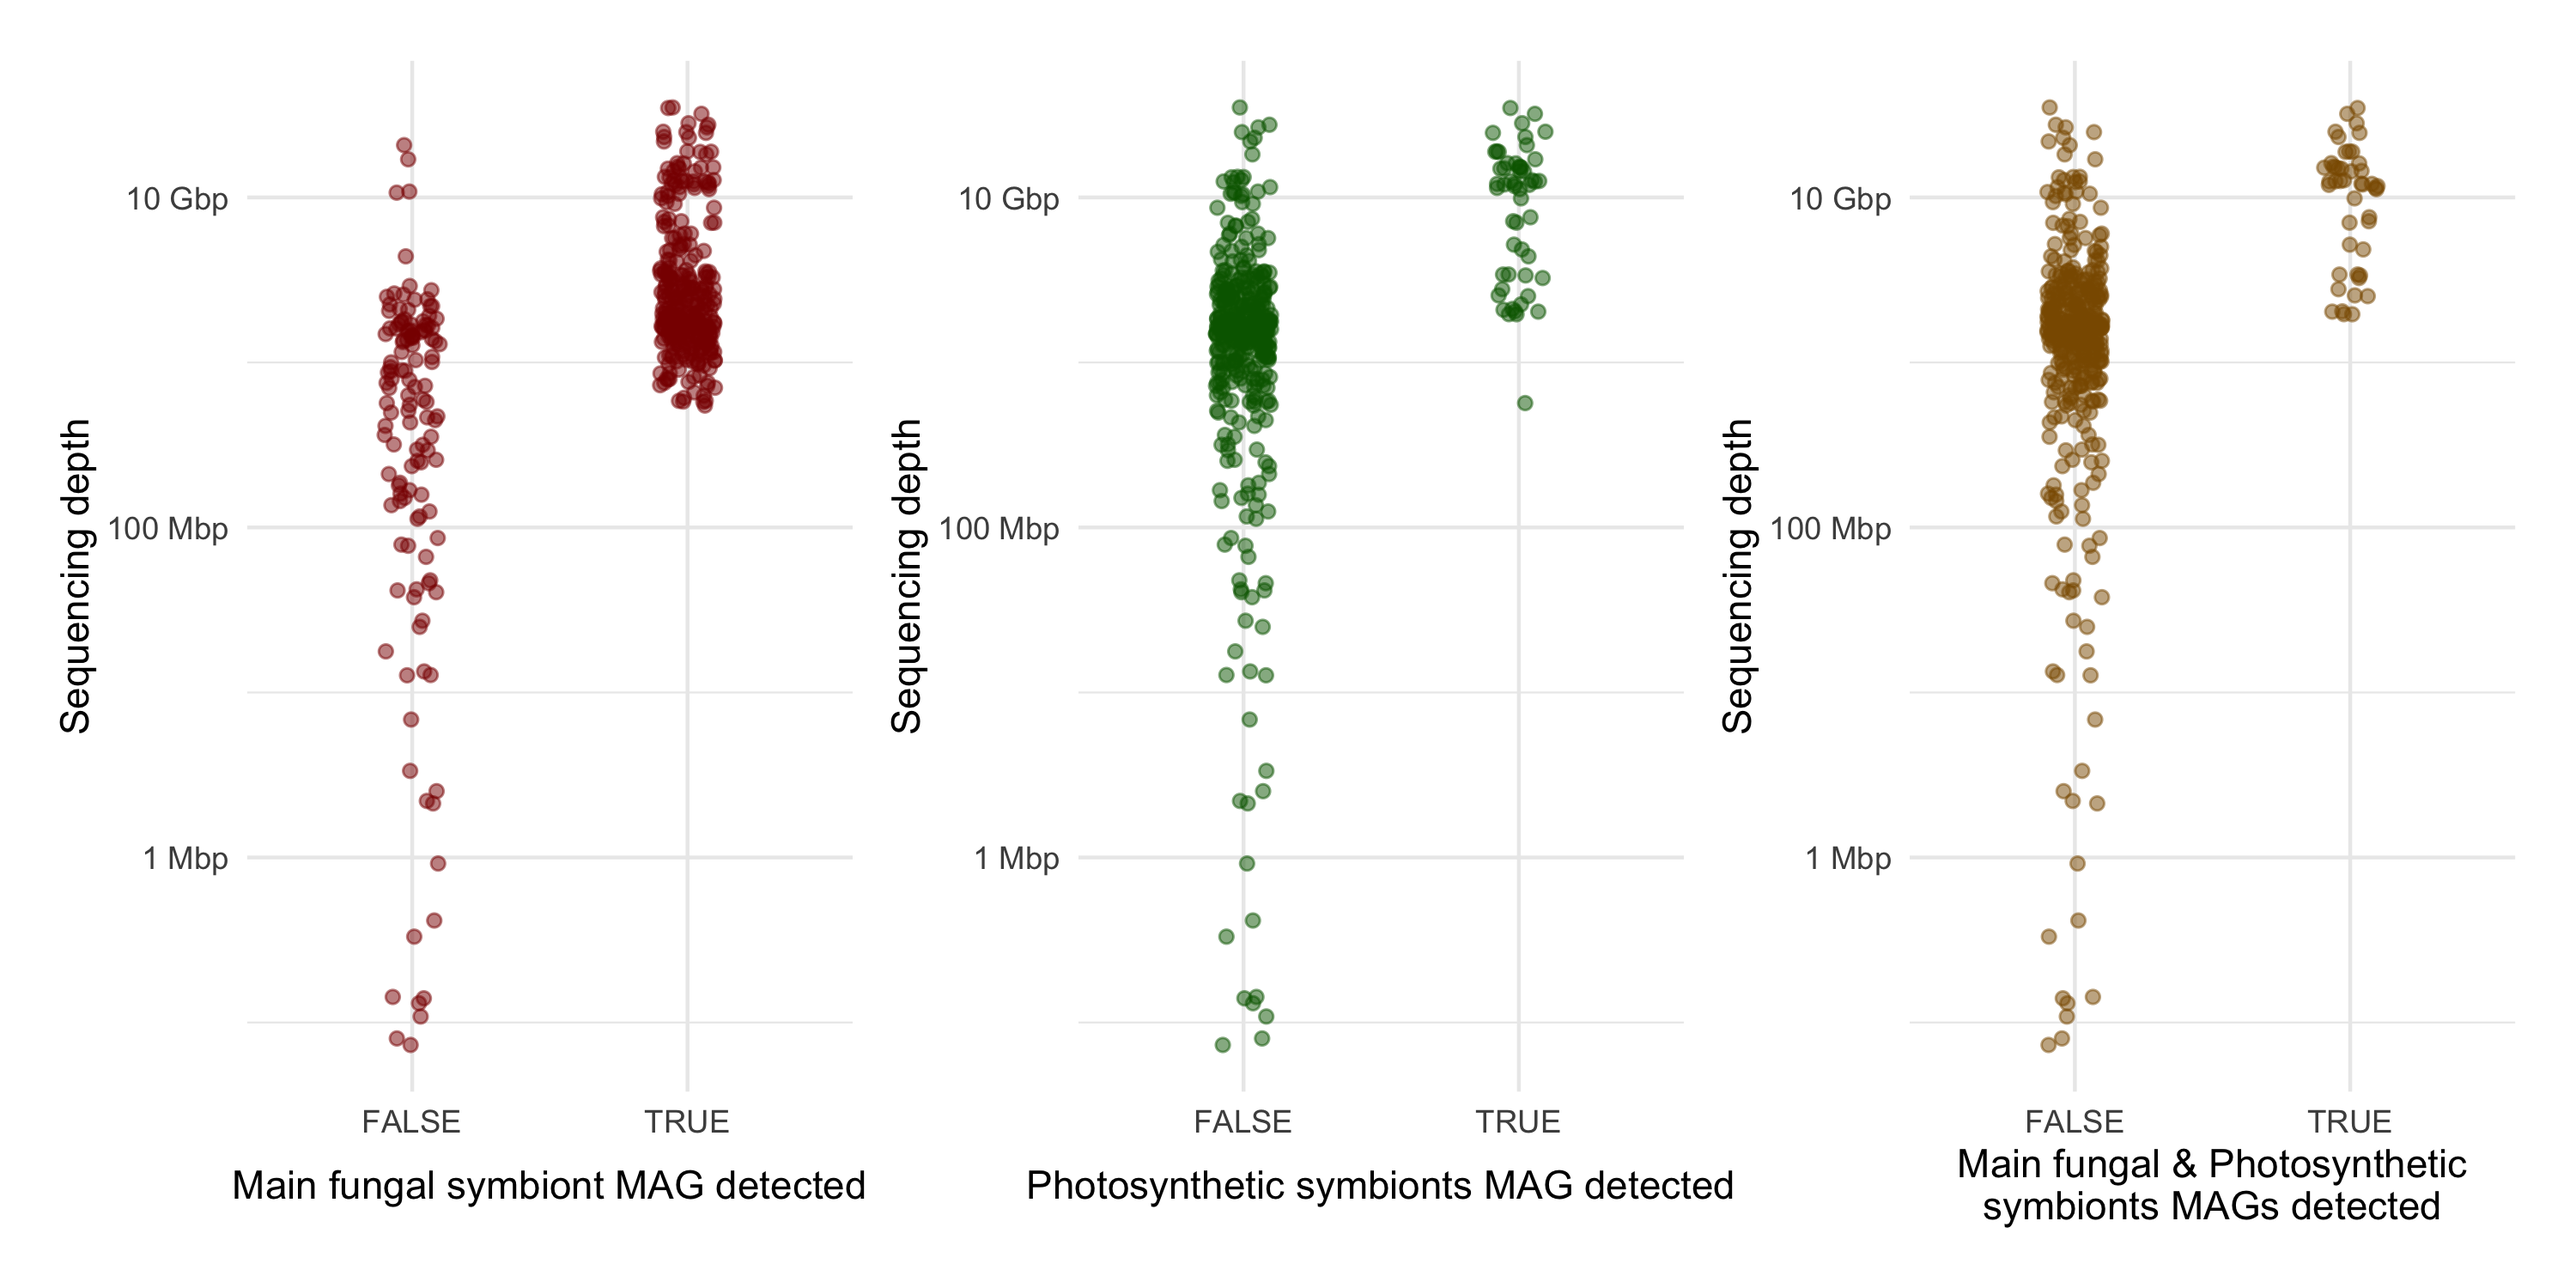
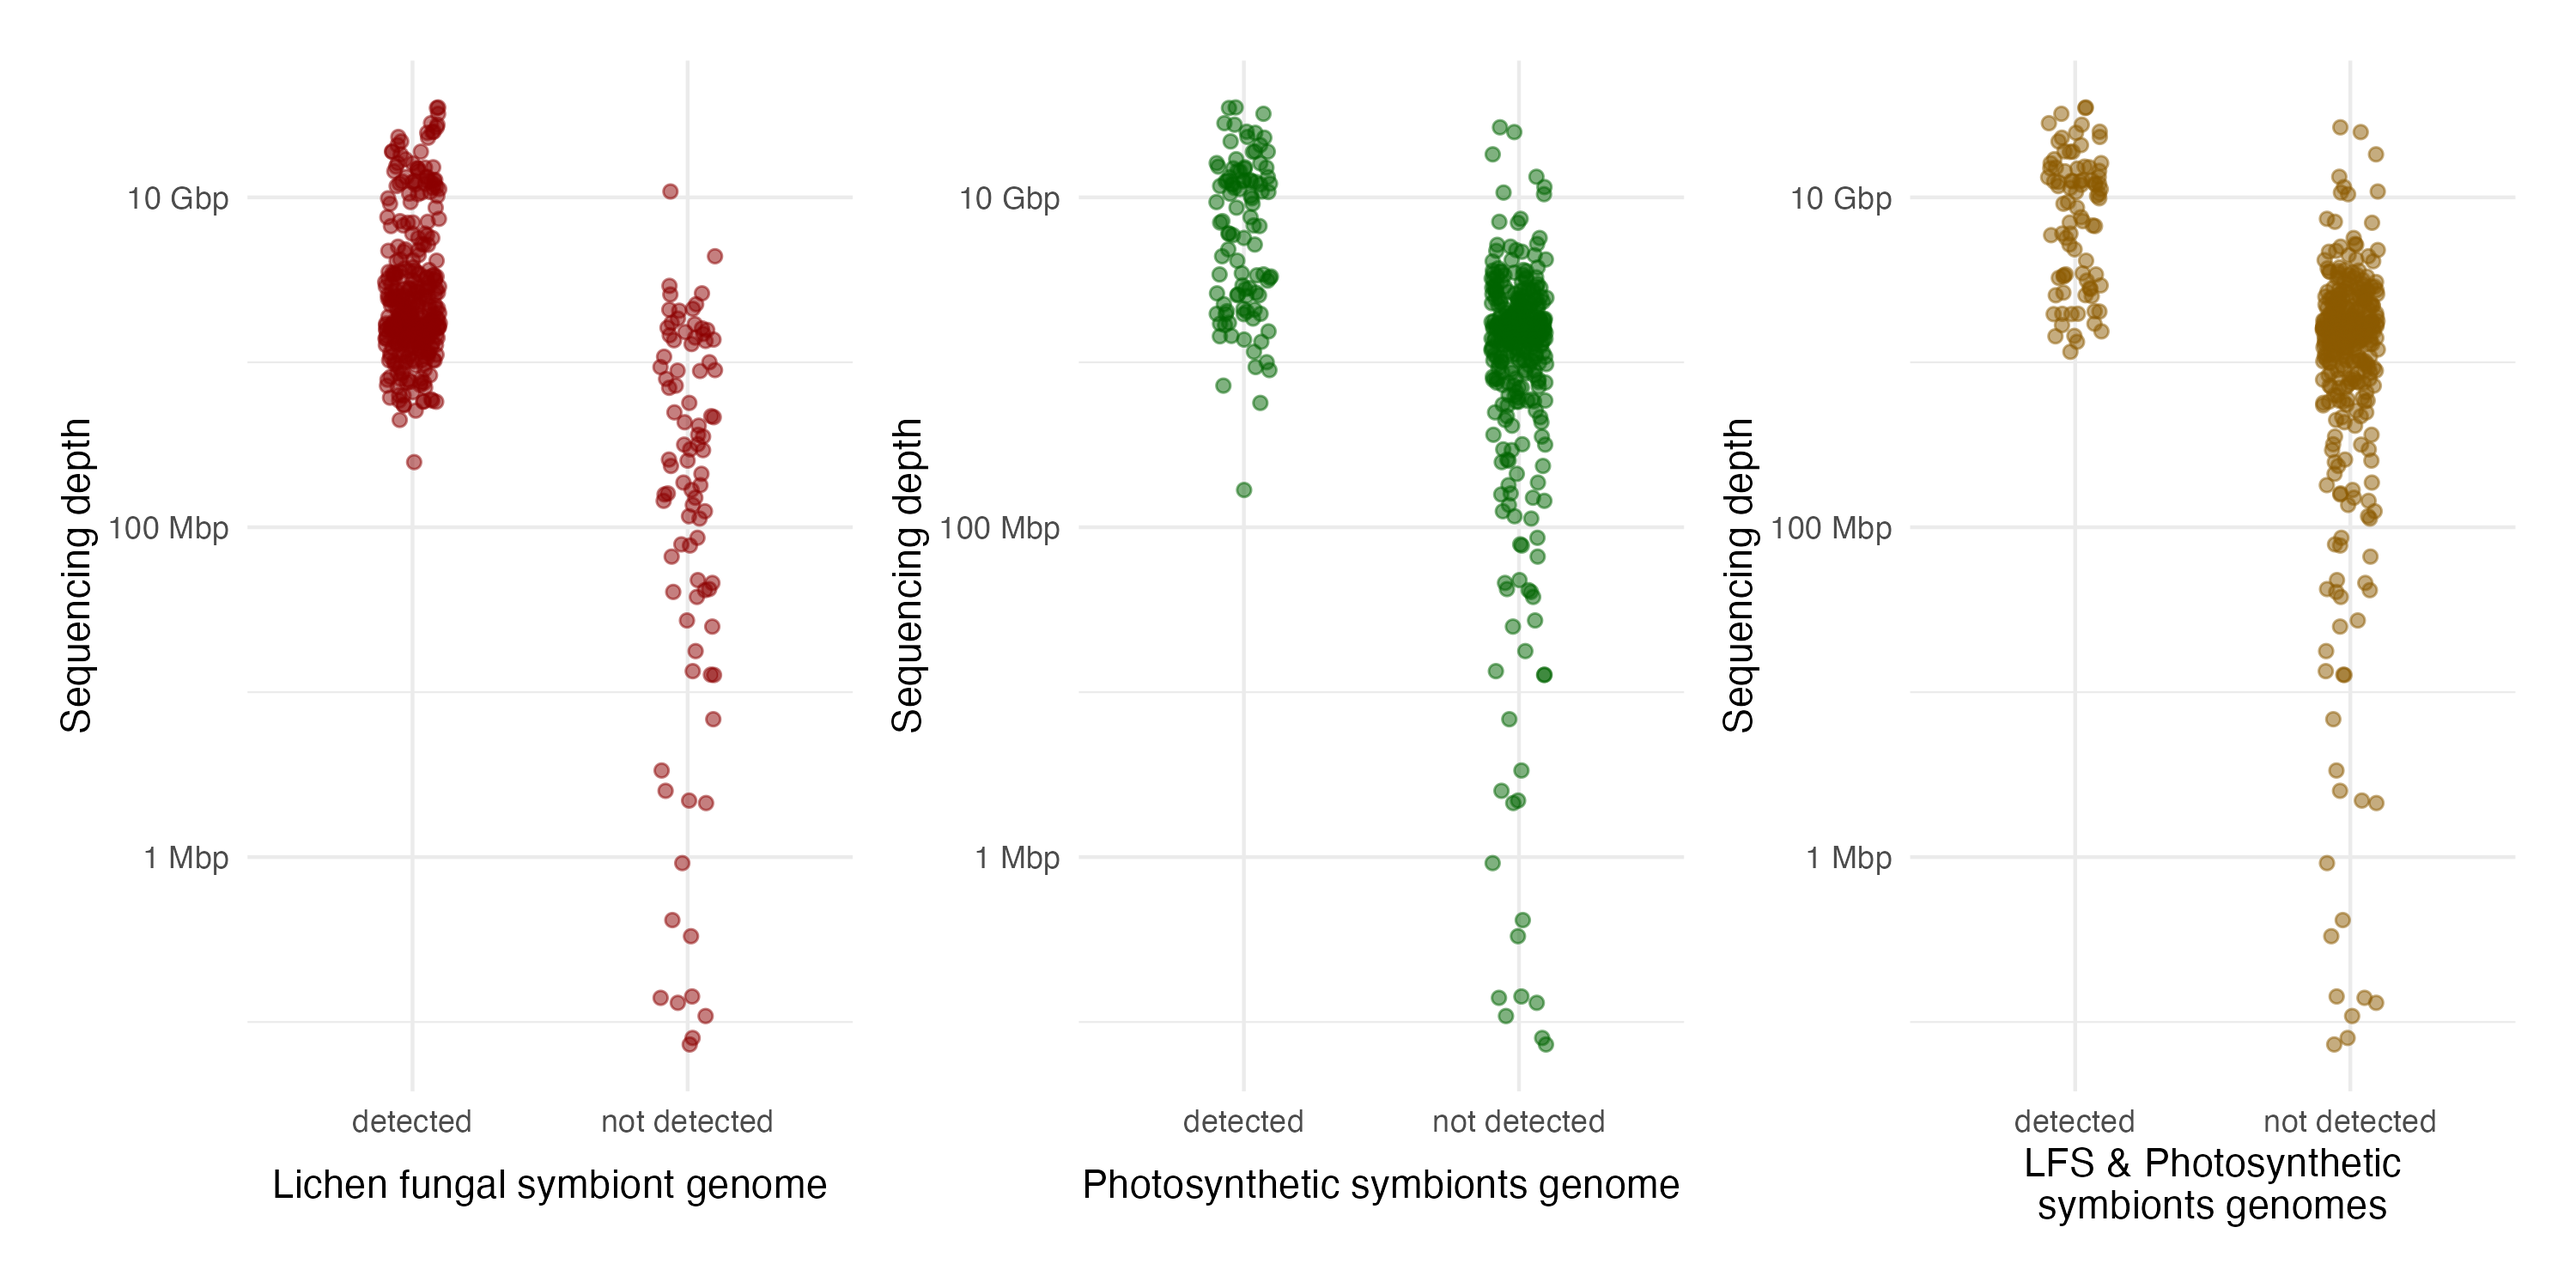
change myco/phpt recovery from the binning results to the bwa alignemnt results

diff --git a/README.md b/README.md
@@ -387,8 +387,11 @@ Software used:
 ### 6.1. Analyzed the recovery of the LFS and photosynthetic partner MAGs as a function of sequencing depth
 * Used `code/recovery_myco_photo_MAGs.R`
 * Used the functional assignments from `results/tables/MAG_confirmed_roles_bwa.tsv`
+* Two versions of the analysis:
+	1. Based on the read alignments. A MAG is present if its breadth of coverage >50% according to BWA
+	2. Based on binning results. A MAG is present if it was recovered during de-novo binning of the metagenomes (including the MAGs discarded during dereplication)
 * Used all metagenomes
-* Saved the figure `results/figures/myco_photobiont_vs_depth.png`. This figure is referenced in the text as **Fig. SXXX**
+* Saved the figure `results/figures/myco_photobiont_vs_depth.png` (based on the read alignments). This figure is referenced in the text as **Fig. SXXX**
 
 
 
